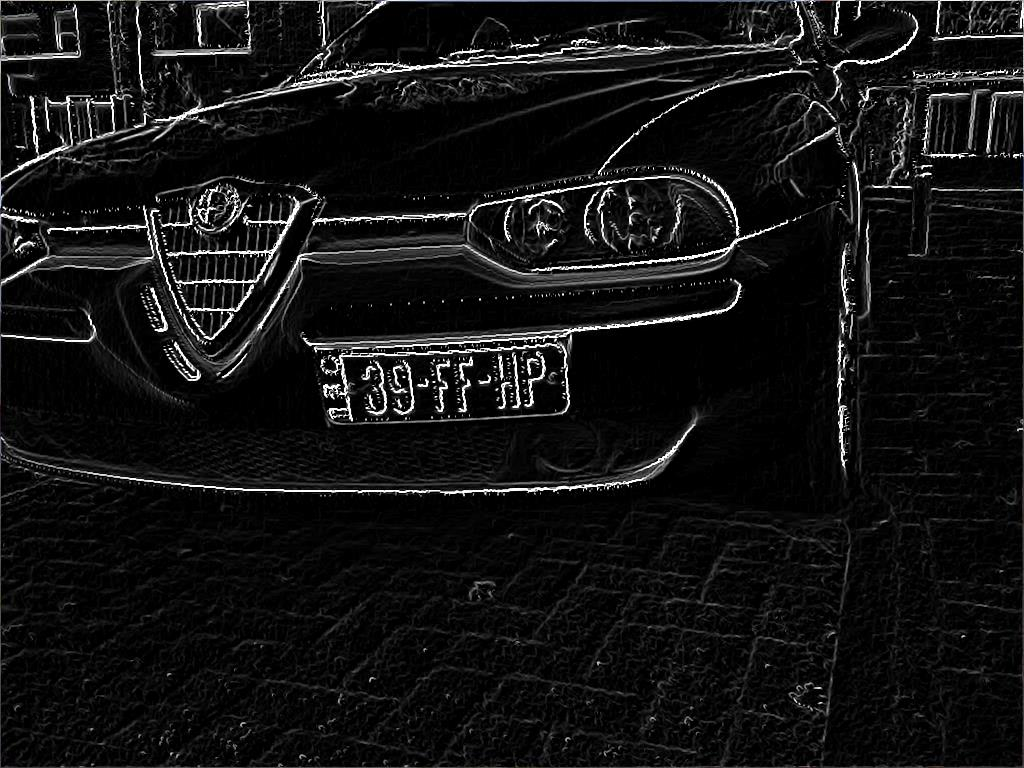
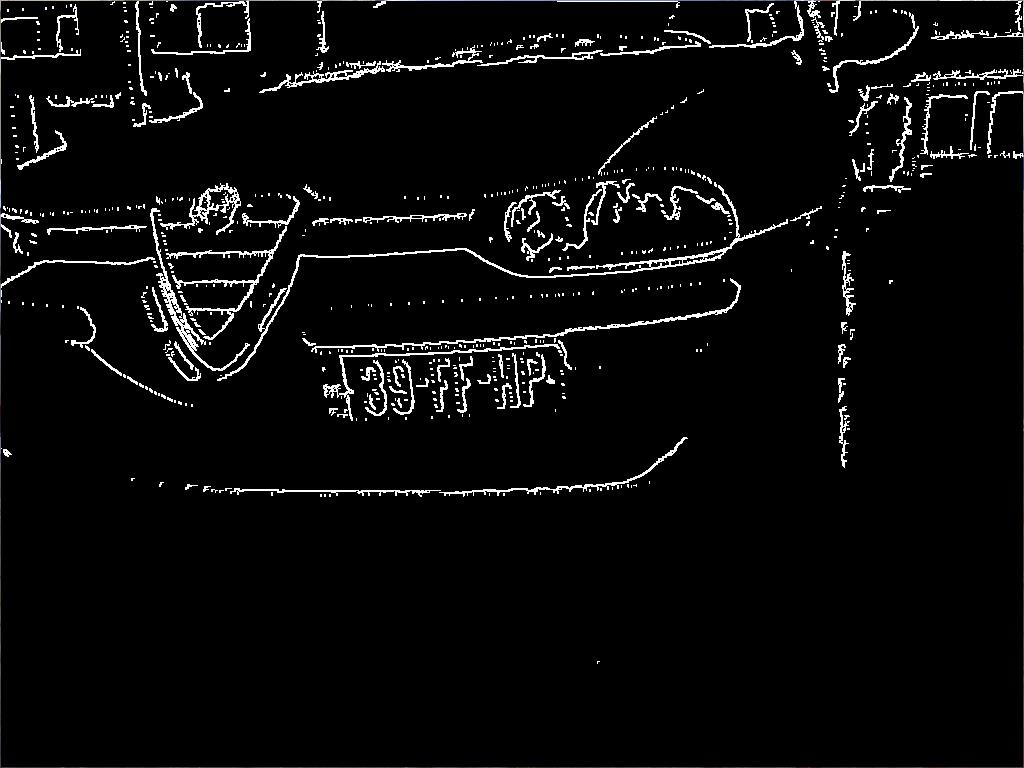
Threshold Filter added in cpp

diff --git a/THO7 Week 4/Vision_timer/Threshold.cpp b/THO7 Week 4/Vision_timer/Threshold.cpp
@@ -1,0 +1,45 @@
+#include "Threshold.h"
+
+
+Threshold::Threshold(){
+	bt = new BaseTimer();
+}
+
+
+Threshold::~Threshold(){
+	delete bt;
+}
+
+void Threshold::CreateThresholdImage(Image &sourceImage, Image &destinationImage) {
+	bt->reset();
+	bt->start();
+
+	int thresh = 125;
+
+	int srcHeight = sourceImage.GetHeight();
+	int srcWidth = sourceImage.GetWidth();
+
+	int dstHeight = destinationImage.GetHeight();
+	int dstWidth = destinationImage.GetWidth();
+
+	if (srcWidth != dstWidth && srcHeight != dstHeight) {
+		std::cout << "Error images are not the same size" << std::endl;
+		return;
+	}
+
+	//THRESHOLD CODE
+	for (int x = 0; x < dstWidth; x++){
+		for (int y = 0; y < dstHeight; y++){
+			if (sourceImage.GetPixel(x, y) < thresh) {
+				destinationImage.SetPixel(x, y, 255 << redPixelShift | 255 << greenPixelShift | 255 << bluePixelShift);
+			}
+			else {
+				destinationImage.SetPixel(x, y, 0 << redPixelShift | 0 << greenPixelShift | 0 << bluePixelShift);
+			}
+		}
+	}
+	//THRESHOLD CODE
+
+	bt->stop();
+	std::cout << "Time for the Threshold function: " << bt->elapsedMicroSeconds() << " Microseconds (" << bt->elapsedMilliSeconds() << "ms)" << std::endl;
+}

diff --git a/THO7 Week 4/Vision_timer/Main.cpp b/THO7 Week 4/Vision_timer/Main.cpp
@@ -6,6 +6,7 @@
 #include "GrayScale.h"
 #include "MedianFilter.h"
 #include "SobelFilter.h"
+#include "Threshold.h"
 
 int main(int argc, char** argv) {
 	/*=========================     Program parameters     =========================*/
@@ -53,11 +54,19 @@ int main(int argc, char** argv) {
 		medianImage.SaveImageToFile("MEDIAN_");
 		std::cout << std::endl;
 
+		Image thresholdImage(originalImage);
+		Threshold thresh;
+		thresh.CreateThresholdImage(medianImage, thresholdImage);
+		thresholdImage.SaveImageToFile("THRESHOLD_");
+		std::cout << std::endl;
+
 		Image sobelImage(originalImage);
 		SobelFilter sobel;
-		sobel.CreateSobelImage(medianImage, sobelImage);
+		sobel.CreateSobelImage(thresholdImage, sobelImage);
 		sobelImage.SaveImageToFile("SOBEL_");
 		std::cout << std::endl;
+
+		
 	}
 
 	//Save the original image

diff --git a/THO7 Week 4/Vision_timer/SobelFilter.cpp b/THO7 Week 4/Vision_timer/SobelFilter.cpp
@@ -66,6 +66,6 @@ void SobelFilter::CreateSobelImage(Image &sourceImage, Image &destinationImage) 
 	}
 
 	bt->stop();
-	std::cout << "Time for the Median filter function: " << bt->elapsedMicroSeconds() << " Microseconds (" << bt->elapsedMilliSeconds() << "ms)" << std::endl;
+	std::cout << "Time for the Sobel edge detection function: " << bt->elapsedMicroSeconds() << " Microseconds (" << bt->elapsedMilliSeconds() << "ms)" << std::endl;
 }
 

diff --git a/THO7 Week 4/Vision_timer/Threshold.h b/THO7 Week 4/Vision_timer/Threshold.h
@@ -1,0 +1,17 @@
+#ifndef Threshold_H
+#define Threshold_H
+#include "Image.h"
+#include "exectimer.h"
+#include <iostream>
+
+class Threshold {
+private:
+	BaseTimer* bt;
+public:
+	Threshold();
+	~Threshold();
+	void CreateThresholdImage(Image &sourceImage, Image &destinationImage);
+};
+
+#endif
+
